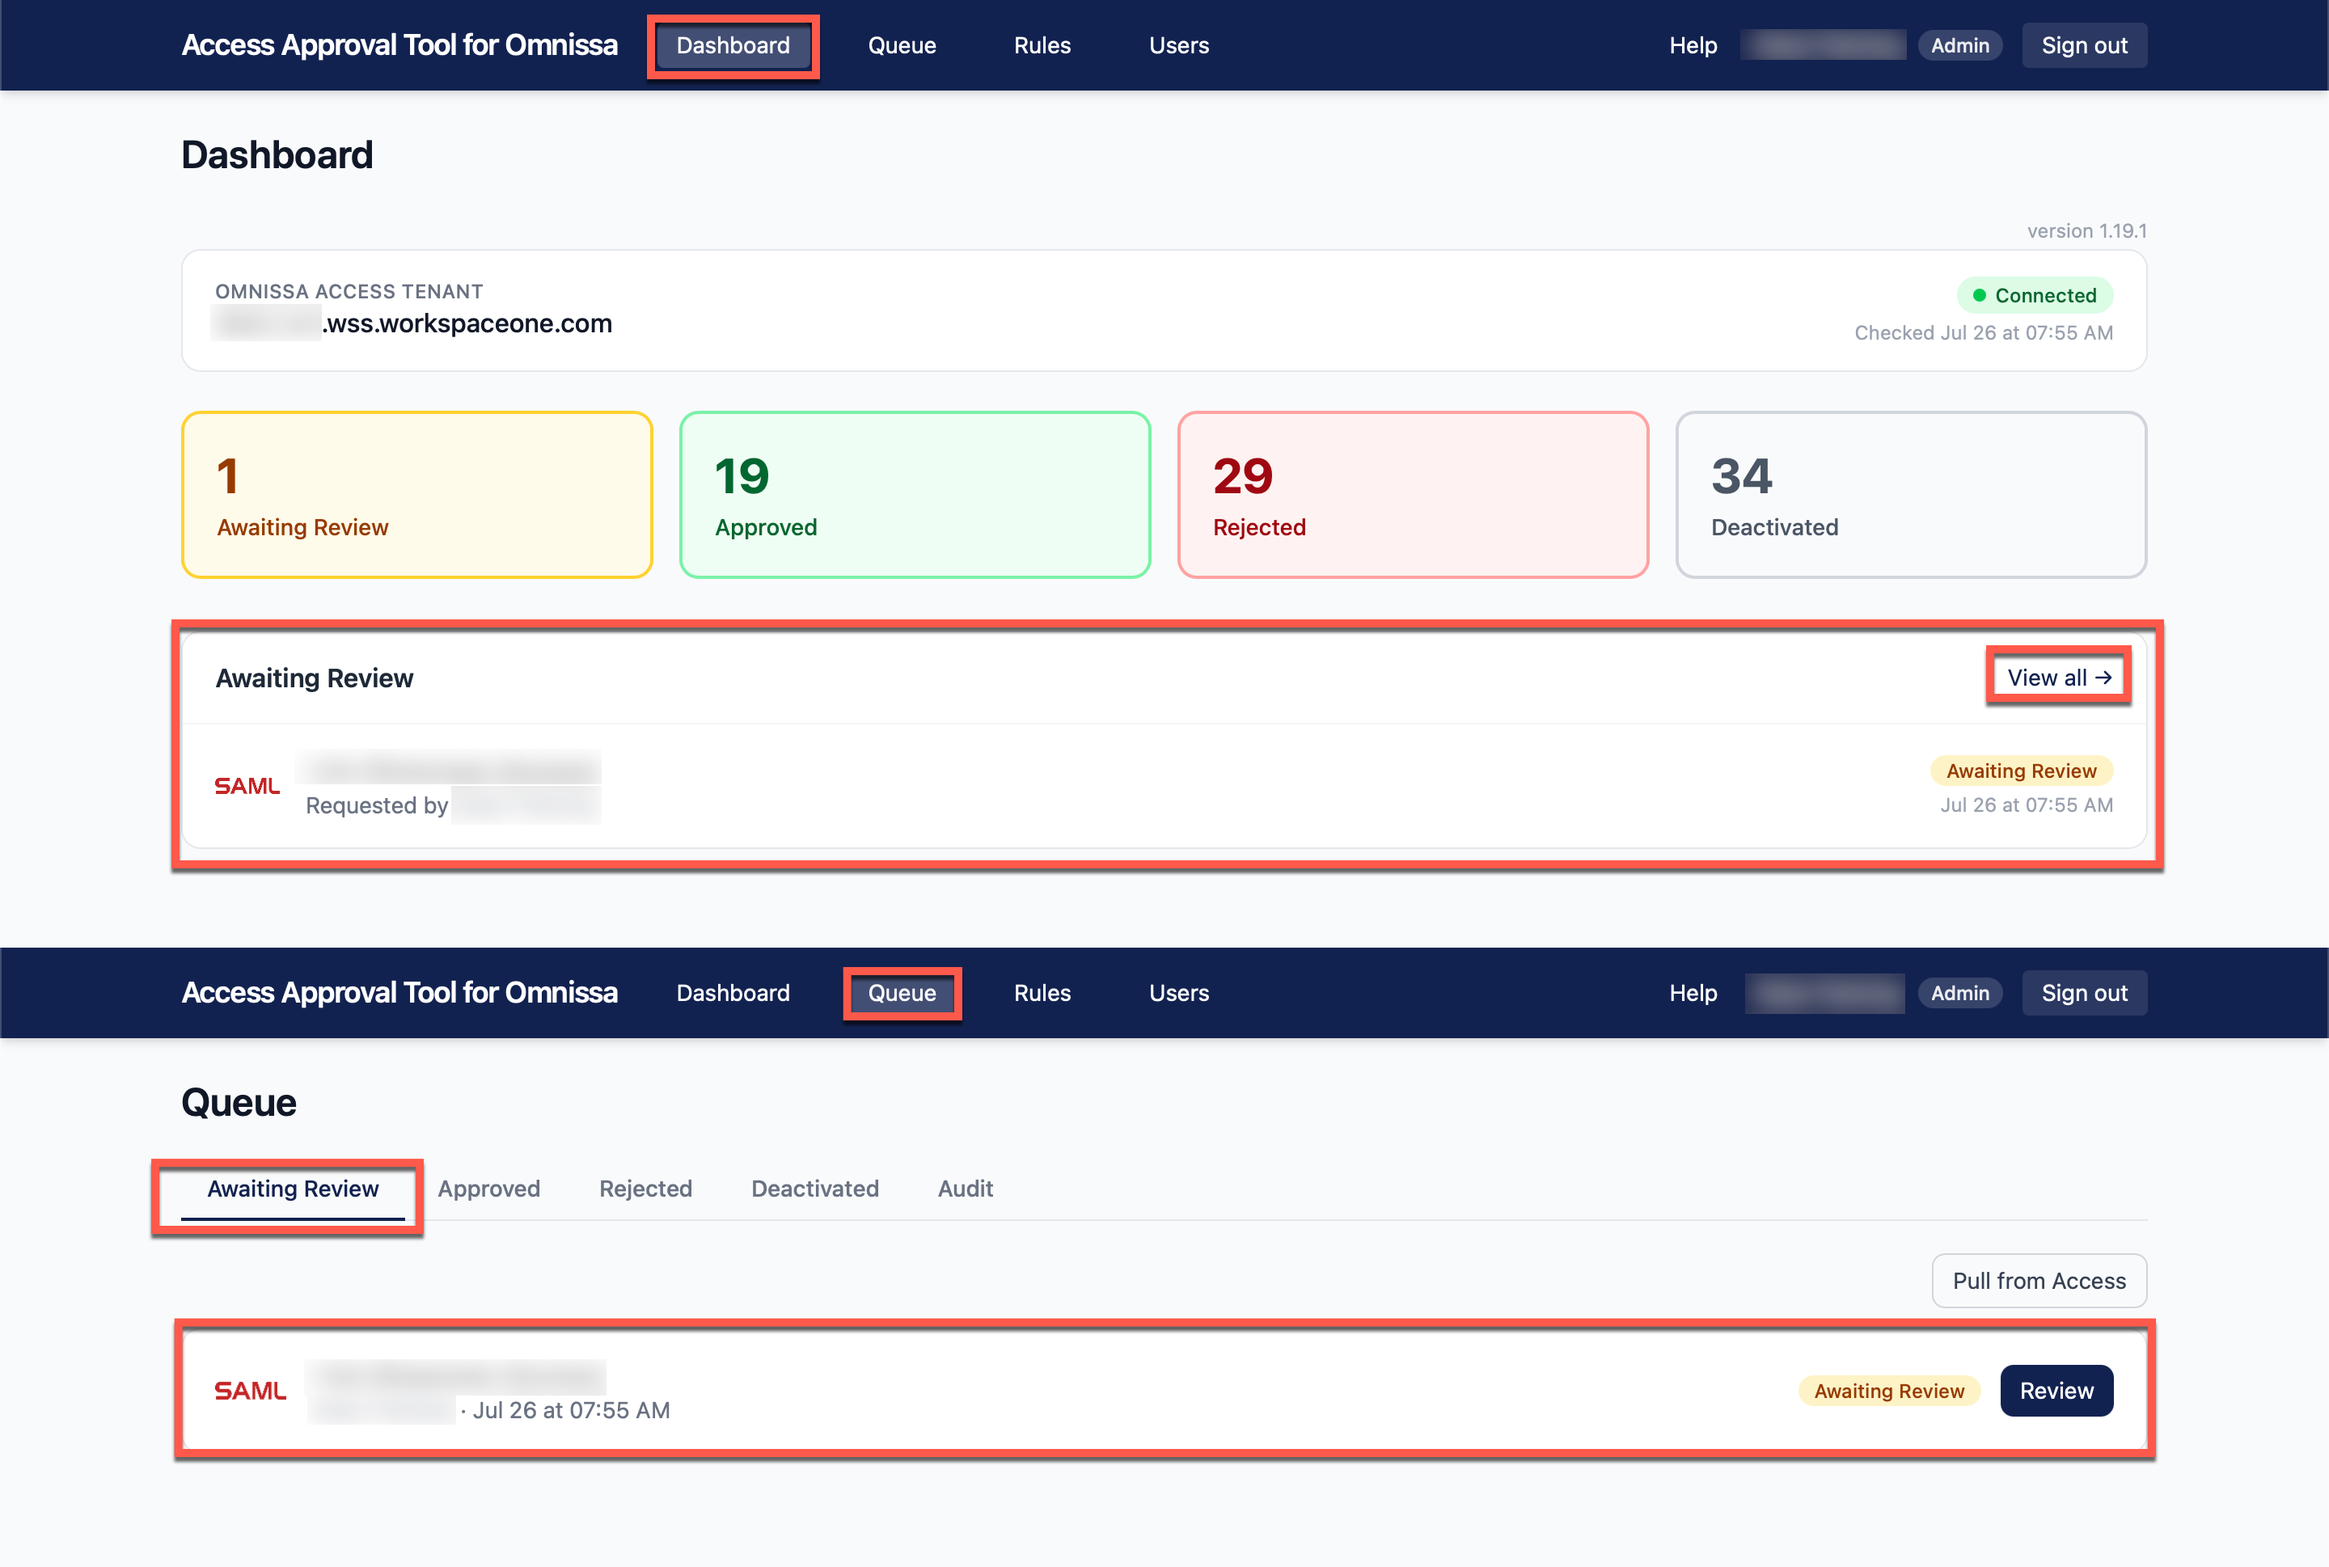
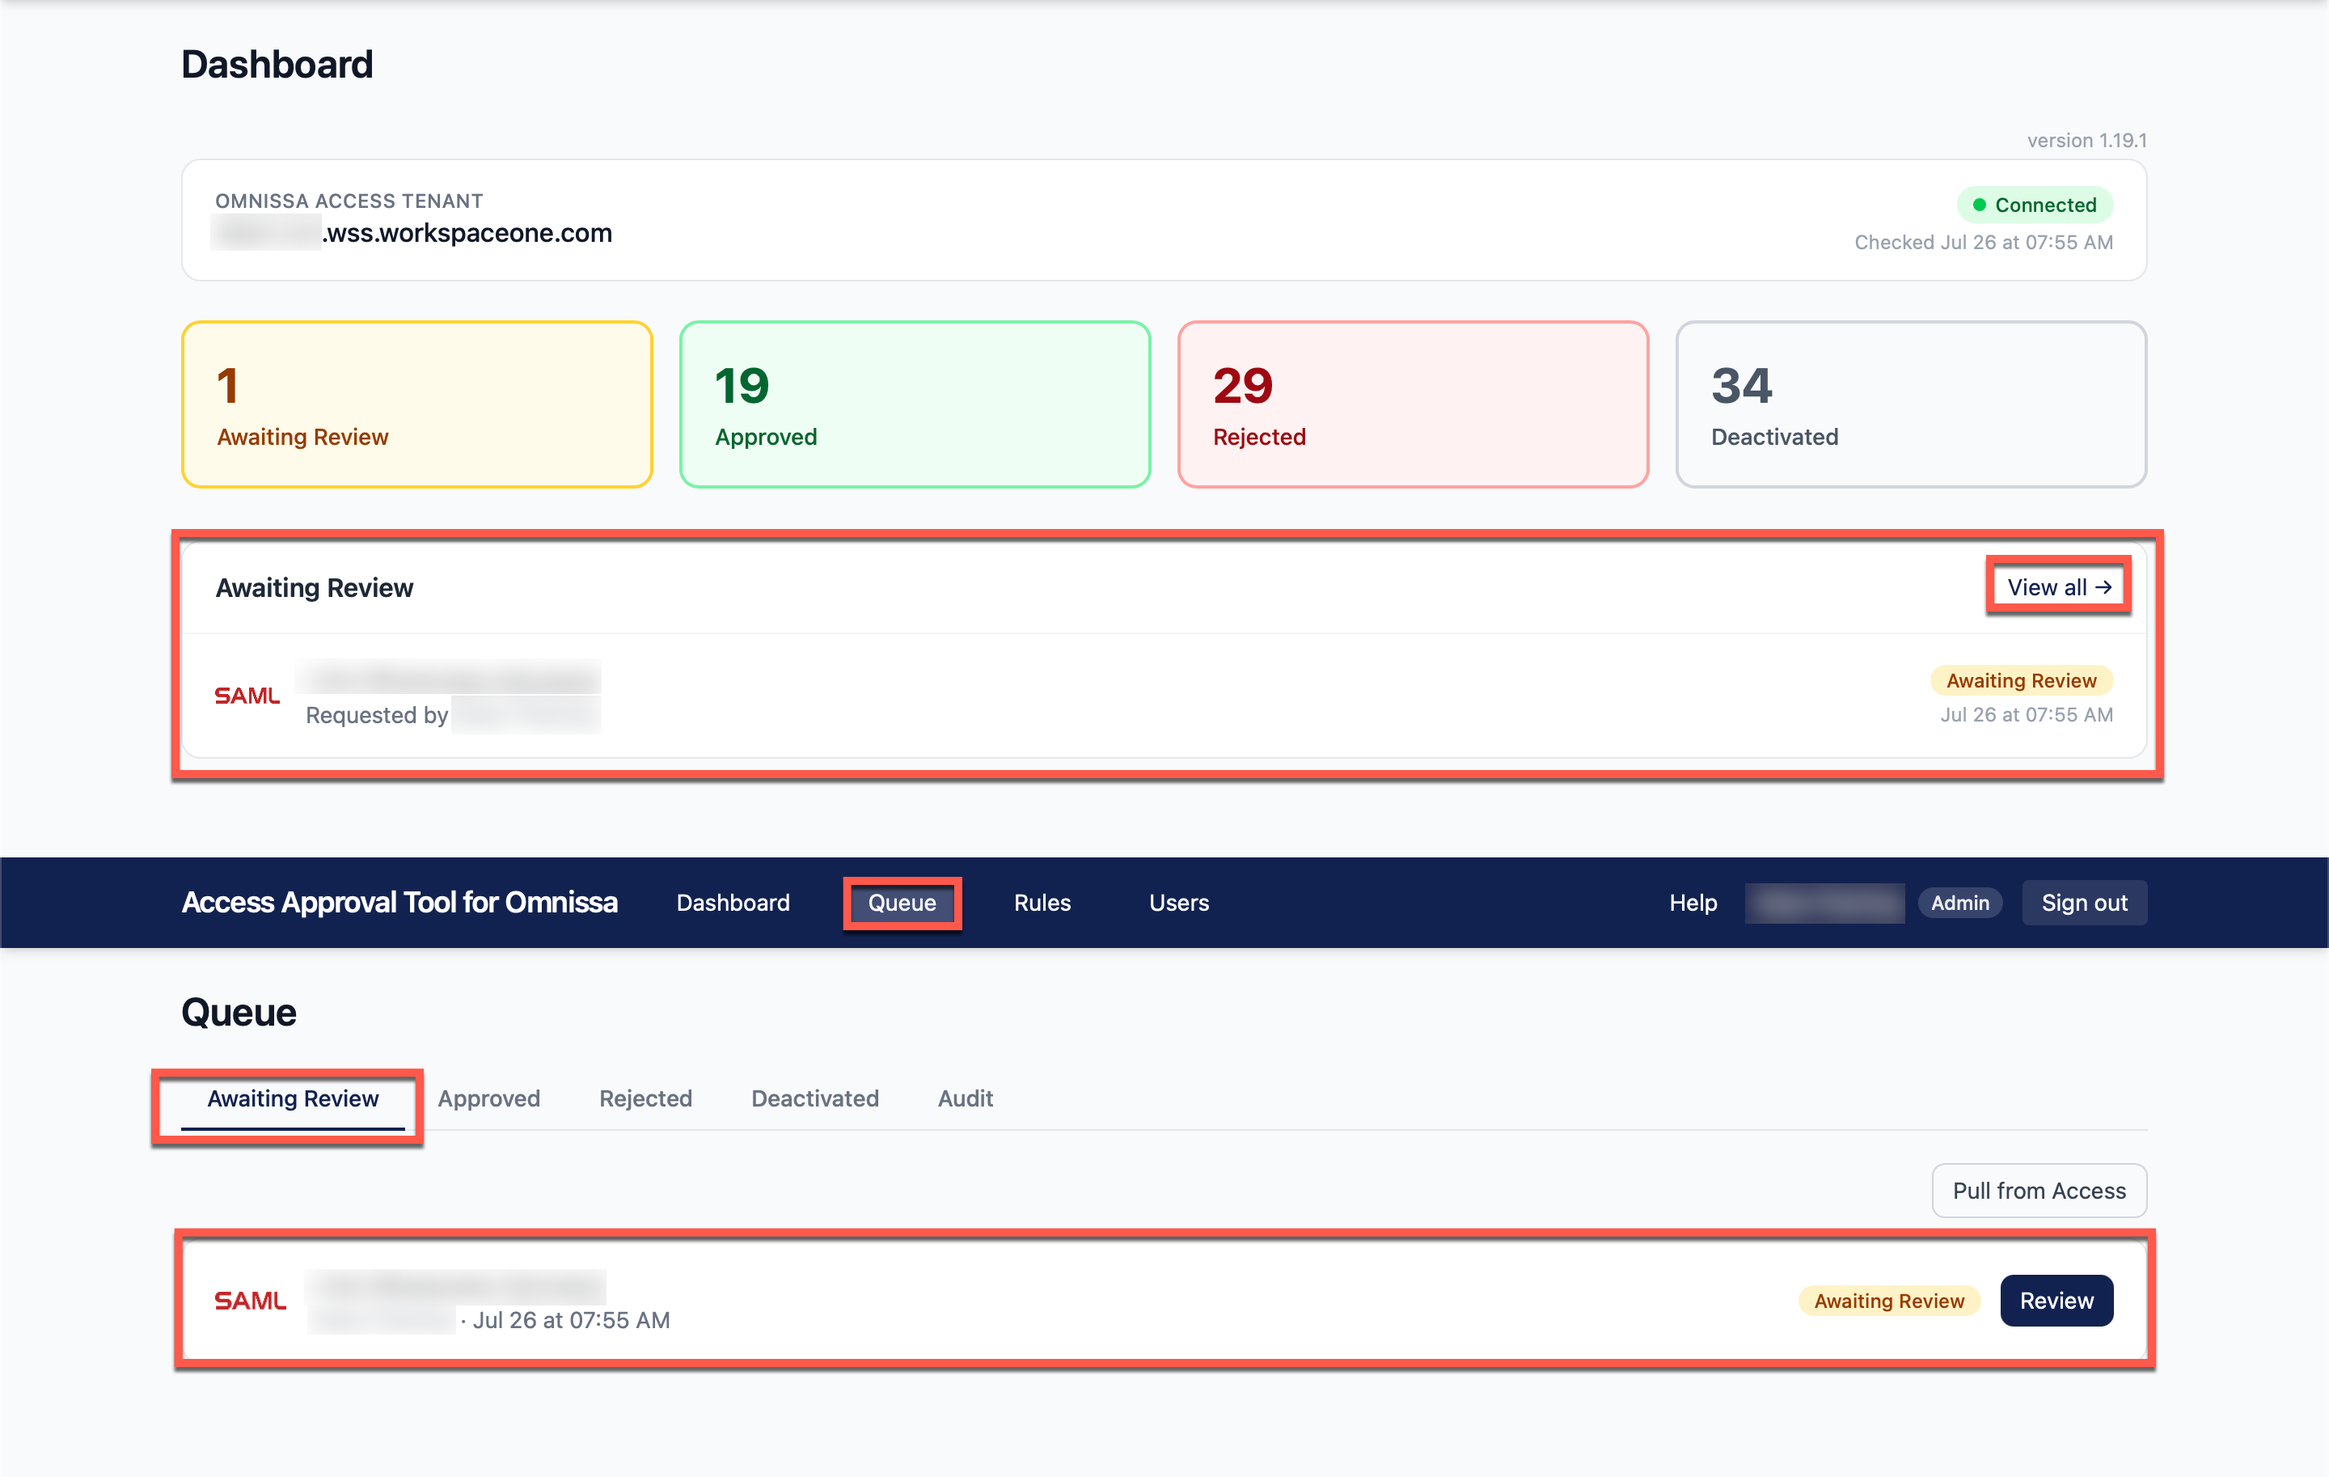
Refresh screenshots for v1.20.0 and document the Chains page
Crops the navy in-app nav bar off every screenshot that still carried
one, so all of them match the established convention of showing page
content only (the Slack/Teams captures keep their own dark chrome —
that is Slack's UI, not ours).

Adds the Approval Chains page screenshot as a new Figure 12 in the
complete documentation and to the standalone chains guide; every
comparable feature section already had a figure and this one did not.
Renumbers the figures after it.

Refreshes the Rules, Users, Audit and Dashboard assets from the newer
captures, and makes the Help figure caption independent of the section
count — it hard-coded "nineteen", which was already wrong the moment
Approval Chains was added and would break again on the next one.

Three screenshots still show pre-1.20.0 UI and need retaking (tracked
separately): both Help captures show a 19-entry contents list with no
Approval Chains, and the Figure 2 composite still reads version 1.19.1
with no Chains nav item.

Claude-Session: https://claude.ai/code/session_01LCKDnH6XnPXeiKtDSKs61m

diff --git a/docs/publish/documentation.md b/docs/publish/documentation.md
@@ -294,6 +294,13 @@ request is routed into a chain, `stage-approved` for each stage along the way,
 and the final stage's decision recorded exactly like any other approval or
 rejection.
 
+![](assets/approval-chains.png)
+
+*Figure 12 — the Chains page. A chain is named and scoped by application-name
+pattern and/or Access group; its stages are then added in order, each
+requiring a role or an Access group. At least one match criterion is required,
+because a chain with neither would match nothing.*
+
 ### 2.8 Chat Approvals — Slack and Teams
 
 New requests can post to Slack or Microsoft Teams with **Approve**, **Reject**
@@ -303,13 +310,13 @@ signs in, and the ordinary role rules apply.
 
 ![](assets/chat-slack.png)
 
-*Figure 12 — Slack. New requests carry the three buttons; lifecycle events
+*Figure 13 — Slack. New requests carry the three buttons; lifecycle events
 (auto-approval, decisions, expiry, exclusions lifting) post as follow-up
 messages stating the consequence.*
 
 ![](assets/chat-teams.png)
 
-*Figure 13 — the same flow in Microsoft Teams via a Power Automate workflow.*
+*Figure 14 — the same flow in Microsoft Teams via a Power Automate workflow.*
 
 **Why deep links rather than deciding in chat.** A Slack interaction callback
 arrives at an endpoint where no signed-in user exists — the signature proves the
@@ -398,7 +405,7 @@ All of these are audited.
 
 ![](assets/users.png)
 
-*Figure 14 — the Users page. New accounts always start as Viewer; raising that
+*Figure 15 — the Users page. New accounts always start as Viewer; raising that
 is a separate, deliberate step.*
 
 > **The bootstrap variables cannot rotate a password.**
@@ -466,7 +473,7 @@ This is two-step confirmed, fully audited, and **never touches Omnissa Access**.
 
 ![](assets/delete-confirm.png)
 
-*Figure 15 — deletion is two-step: acknowledge the consequence, then type
+*Figure 16 — deletion is two-step: acknowledge the consequence, then type
 DELETE. Both steps restate that Access is not contacted.*
 
 **Deleting a request that is still pending is refused** (HTTP 409). Access holds
@@ -523,8 +530,9 @@ readable by every role, including Auditor.
 
 ![](assets/help-contents.png)
 
-*Figure 16 — the Help page and its nineteen-section contents list. Each entry
-jumps to its section, and each section offers a back-to-top link.*
+*Figure 17 — the Help page and its contents list, which is built from the
+sections actually rendered rather than kept by hand. Each entry jumps to its
+section, and each section offers a back-to-top link.*
 
 ---
 
@@ -626,7 +634,7 @@ the backup/restore scripts.
 
 ![](assets/access-service-client.png)
 
-*Figure 17 — service client in Omnissa Access (Service Client Token, admin scope).*
+*Figure 18 — service client in Omnissa Access (Service Client Token, admin scope).*
 
 ### 5.2 OIDC Admin Login Client
 
@@ -647,7 +655,7 @@ the backup/restore scripts.
 
 ![](assets/access-oidc-client.png)
 
-*Figure 18 — OIDC admin login client (authorization code + PKCE). Note: the scope
+*Figure 19 — OIDC admin login client (authorization code + PKCE). Note: the scope
 list must also include `group` for role resolution.*
 
 ### 5.3 Approvals Settings
@@ -660,7 +668,7 @@ DNS, TLS, or reachability problems (Section 9).
 
 ![](assets/access-approvals-settings.png)
 
-*Figure 19 — Settings → Approvals: REST API engine pointed at the callout URI.*
+*Figure 20 — Settings → Approvals: REST API engine pointed at the callout URI.*
 
 ### 5.4 Putting Applications Behind Approval
 
@@ -673,11 +681,11 @@ recorded in the tool.
 
 ![](assets/access-license-approval.png)
 
-*Figure 20 — License Approval Required on an application.*
+*Figure 21 — License Approval Required on an application.*
 
 ![](assets/access-assignment.png)
 
-*Figure 21 — assignment deployment type selection (User-Activated / Automatic).*
+*Figure 22 — assignment deployment type selection (User-Activated / Automatic).*
 
 ---
 
@@ -786,7 +794,7 @@ A complete demonstration takes roughly thirty minutes on a fresh tenant.
 
 ![](assets/hub-pending.png)
 
-*Figure 22 — the user side: PENDING until somebody, or a rule, says yes.*
+*Figure 23 — the user side: PENDING until somebody, or a rule, says yes.*
 
 ---
 

diff --git a/docs/approval-chains.md b/docs/approval-chains.md
@@ -30,6 +30,8 @@ Omnissa Access, instead of any one approver deciding it outright.
 Chains are managed on the **Chains** page (administrators only — readable by
 Admin/Approver/Viewer, same as Auto-Approval Rules).
 
+![Approval Chains page](images/tool-approval-chain.png)
+
 - **Name**, an optional **app name pattern** (`*` wildcard, same syntax as
   auto-rules) and an optional **Access group** — at least one of the two
   criteria is required, or the chain matches nothing (the same reasoning that
